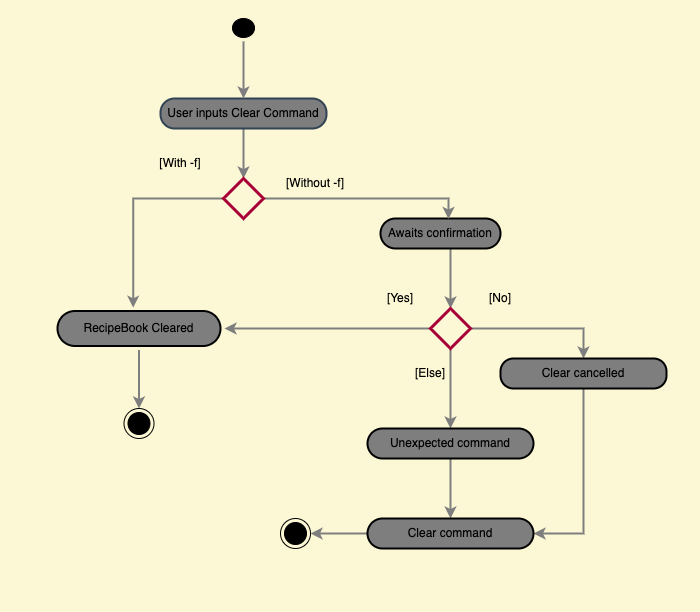
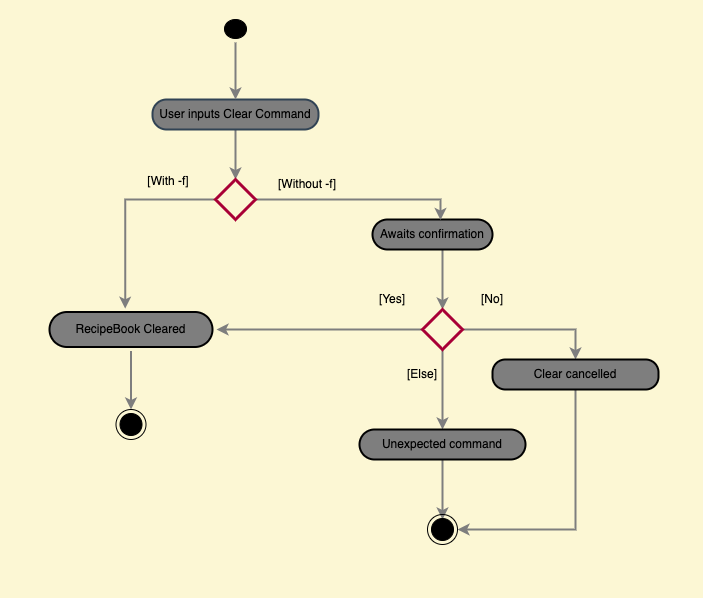
docs: update clear feature in DG

Changed region(s): [[0.06, 0.0301, 0.96, 0.903]]

diff --git a/docs/DeveloperGuide.md b/docs/DeveloperGuide.md
@@ -181,7 +181,7 @@ The `Storage` component,
 * The `JsonAdaptedRecipe` contains the standard attributes of a `Recipe` in `JsonProperty` format.
 * `JsonAdaptedRecipe` also contains attributes in a list such as
 * `List<JsonAdaptedSteps>`, `List<JsonAdaptedIngredient>` and `List<JsonAdaptedTag>` format.
-*
+
 
 ### Common classes
 
@@ -192,6 +192,20 @@ Classes used by multiple components are in the `seedu.address.commons` package.
 ## **Implementation**
 
 This section describes some noteworthy details on how certain features are implemented.
+
+### Clear feature
+This feature allows the application to clear all the existing recipes in the application. Users will be able to delete all the existing recipes in one command.
+
+<img src="umlDiagrams/img/ClearActivityDiagram.png"/>
+
+**Step 1**. The user launches the application. <br>
+**Step 2**. The user executes `clear` command to clear all recipes. <br>
+**Step 3**. The user will be prompted a `yes` and `no` to confirm his clearance
+- if the user inputs `yes`, the RecipeBook will be cleared
+- if the user inputs `no`, the `clear` command is cancelled. 
+- if the user inputs neither `yes` or `no`, 
+  Expected: Unknown Command!Type in the clear command again if you wish to clear
+
 
 ### \[Proposed\] Undo/redo feature
 
@@ -260,7 +274,7 @@ The following activity diagram summarizes what happens when a user executes a ne
 
 <img src="umlDiagrams/img/CommitActivityDiagram.png" width="200" />
 
-### Design considerations:
+#### Design considerations:
 
 **Aspect: How undo & redo executes:**
 
